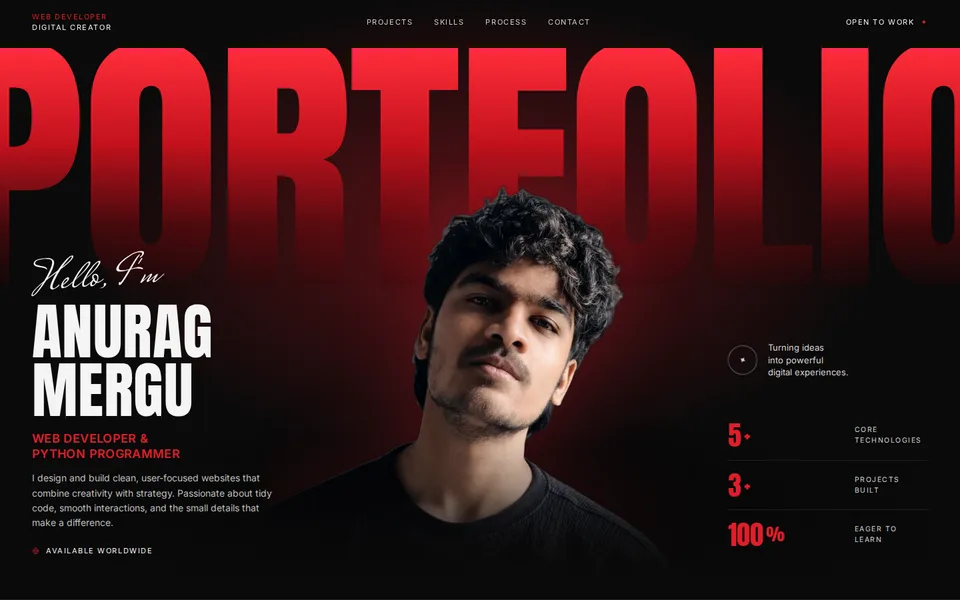
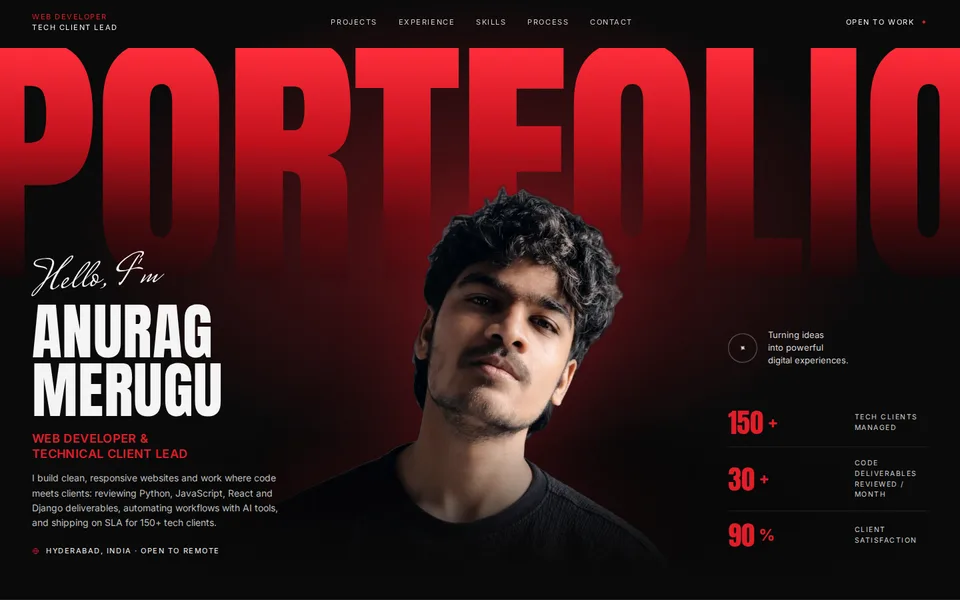
Add experience from resume and tech-focused content
- New Experience section covering the three Scoutbetter roles, framed around
  code review, AI-assisted automation and tech-client delivery
- Hero role, intro and stats now use real resume numbers
- Real education, skills, email and city; surname corrected to Merugu
- Refresh portfolio thumbnail

Claude-Session: https://claude.ai/code/session_01SLB77Zcdq7UYAGSakjk8NT

diff --git a/index.html b/index.html
@@ -3,10 +3,10 @@
 <head>
   <meta charset="UTF-8">
   <meta name="viewport" content="width=device-width, initial-scale=1.0">
-  <title>Anurag Mergu | Web Developer</title>
-  <meta name="description" content="Portfolio of Anurag Mergu — web developer building clean, responsive and user-focused websites.">
+  <title>Anurag Merugu | Web Developer</title>
+  <meta name="description" content="Portfolio of Anurag Merugu — web developer and technical customer success professional based in Hyderabad, working with Python, JavaScript, React and Django teams.">
   <meta name="theme-color" content="#0a0a0a">
-  <meta property="og:title" content="Anurag Mergu | Web Developer">
+  <meta property="og:title" content="Anurag Merugu | Web Developer">
   <meta property="og:description" content="Turning ideas into powerful digital experiences.">
   <meta property="og:image" content="assets/img/anurag.webp">
 
@@ -42,11 +42,12 @@
   <header class="topbar" id="top">
     <a href="#top" class="topbar__brand">
       <span class="accent">Web Developer</span>
-      <span>Digital Creator</span>
+      <span>Tech Client Lead</span>
     </a>
 
     <nav class="nav" id="nav" aria-label="Main">
       <a href="#projects">Projects</a>
+      <a href="#experience">Experience</a>
       <a href="#skills">Skills</a>
       <a href="#process">Process</a>
       <a href="#contact">Contact</a>
@@ -66,19 +67,19 @@
       <h1 class="hero__word" aria-hidden="true">PORTFOLIO</h1>
 
       <div class="hero__photo">
-        <img src="assets/img/anurag.webp" alt="Portrait of Anurag Mergu" width="900" height="936" fetchpriority="high">
+        <img src="assets/img/anurag.webp" alt="Portrait of Anurag Merugu" width="900" height="936" fetchpriority="high">
       </div>
 
       <div class="hero__intro reveal">
         <p class="script">Hello, I'm</p>
-        <h2 class="hero__name">Anurag<br>Mergu</h2>
-        <p class="hero__role">Web Developer &amp;<br>Python Programmer</p>
+        <h2 class="hero__name">Anurag<br>Merugu</h2>
+        <p class="hero__role">Web Developer &amp;<br>Technical Client Lead</p>
         <p class="hero__text">
-          I design and build clean, user-focused websites that combine creativity with
-          strategy. Passionate about tidy code, smooth interactions, and the small
-          details that make a difference.
+          I build clean, responsive websites and work where code meets clients:
+          reviewing Python, JavaScript, React and Django deliverables, automating
+          workflows with AI tools, and shipping on SLA for 150+ tech clients.
         </p>
-        <p class="hero__avail"><svg class="i" aria-hidden="true"><use href="#i-globe"/></svg> Available worldwide</p>
+        <p class="hero__avail"><svg class="i" aria-hidden="true"><use href="#i-globe"/></svg> Hyderabad, India · Open to remote</p>
       </div>
 
       <div class="hero__side reveal">
@@ -89,9 +90,9 @@
 
         <!-- EDIT: update these numbers as you grow -->
         <ul class="stats">
-          <li><strong data-count="5">5</strong><sup>+</sup><span>Core<br>technologies</span></li>
-          <li><strong data-count="3">3</strong><sup>+</sup><span>Projects<br>built</span></li>
-          <li><strong data-count="100">100</strong><sup>%</sup><span>Eager to<br>learn</span></li>
+          <li><strong data-count="150">150</strong><sup>+</sup><span>Tech clients<br>managed</span></li>
+          <li><strong data-count="30">30</strong><sup>+</sup><span>Code deliverables<br>reviewed / month</span></li>
+          <li><strong data-count="90">90</strong><sup>%</sup><span>Client<br>satisfaction</span></li>
         </ul>
       </div>
     </section>
@@ -155,35 +156,110 @@
       </div>
     </section>
 
+    <!-- ============ EXPERIENCE ============ -->
+    <section class="section" id="experience">
+      <div class="section__head">
+        <h2 class="section__title">Experience</h2>
+        <span class="section__line" aria-hidden="true"></span>
+        <span class="section__link">Scoutbetter · Dec 2024 – Present</span>
+      </div>
+
+      <ol class="jobs">
+        <li class="job reveal">
+          <div class="job__when">
+            <time>Feb 2026 – Present</time>
+            <span>Scoutbetter · Nizamabad</span>
+          </div>
+          <div class="job__body">
+            <h3>Sales &amp; Operations Executive</h3>
+            <ul>
+              <li>Automated lead-engagement and follow-up workflows across LinkedIn and WhatsApp Business, using AI tools to draft outreach and cut response time within SLA.</li>
+              <li>Built real-time Google Sheets trackers (formulas, status logic, dashboards) that give stakeholders live pipeline visibility with zero follow-up leakage.</li>
+              <li>Ran end-to-end engagement operations (attendance tracking, testimonial collection, payment and renewal recovery) from one data pipeline.</li>
+            </ul>
+          </div>
+          <ul class="job__tags">
+            <li>AI Tools</li><li>Automation</li><li>Google Sheets</li><li>LinkedIn</li>
+          </ul>
+        </li>
+
+        <li class="job reveal">
+          <div class="job__when">
+            <time>Sep 2025 – Feb 2026</time>
+            <span>Scoutbetter · Nizamabad</span>
+          </div>
+          <div class="job__body">
+            <h3>Customer Success Manager · Tech Clients</h3>
+            <ul>
+              <li>Reviewed and advised on 30+ client software deliverables a month across Python, JavaScript, React and Django, steering technical conversations with engineering buyers.</li>
+              <li>Owned a 150+ client portfolio in Salesforce CRM, hitting a 3-day TAT, resolving escalations within 48 hours and holding a 90% CSAT.</li>
+              <li>Tracked KPIs (TAT, CSAT, revision rate) and introduced structured requirement gathering and QA checks that cut revision cycles by 20%.</li>
+              <li>Improved client retention by 15% over six months through data-driven, proactive engagement.</li>
+            </ul>
+          </div>
+          <ul class="job__tags">
+            <li>Python</li><li>JavaScript</li><li>React</li><li>Django</li><li>Salesforce</li><li>QA</li>
+          </ul>
+        </li>
+
+        <li class="job reveal">
+          <div class="job__when">
+            <time>Dec 2024 – Aug 2025</time>
+            <span>Scoutbetter · Nizamabad</span>
+          </div>
+          <div class="job__body">
+            <h3>Team Lead</h3>
+            <ul>
+              <li>Led delivery of client-facing product work, translating customer needs into technical requirements and shipping improvements on time with cross-functional teams.</li>
+              <li>Designed modular, reusable delivery processes that cut rework by 30% and made turnaround predictable.</li>
+            </ul>
+          </div>
+          <ul class="job__tags">
+            <li>Delivery</li><li>Requirements</li><li>Process Design</li>
+          </ul>
+        </li>
+      </ol>
+
+      <div class="toolbelt reveal">
+        <h3 class="label">Tools I work with every day</h3>
+        <ul class="chips">
+          <li>VS Code</li><li>Git &amp; GitHub</li><li>AI Assistants</li><li>Salesforce CRM</li>
+          <li>Google Sheets</li><li>Microsoft Office</li><li>WhatsApp Business</li><li>LinkedIn</li>
+        </ul>
+      </div>
+    </section>
+
     <!-- ============ SKILLS / PROCESS / QUOTE ============ -->
     <section class="trio">
       <div class="trio__col" id="skills">
         <h2 class="section__title">Education &amp; Skills</h2>
 
         <h3 class="label">Education</h3>
-        <!-- EDIT: add your real degree, college and years -->
         <ul class="edu">
           <li>
-            <div><strong>Bachelor's Degree</strong><span>Your College / University</span></div>
-            <time>20XX – 20XX</time>
+            <div><strong>Bachelor's Degree, Computer Science</strong><span>Girraj Govt College</span></div>
+            <time>2020 – 2024</time>
           </li>
           <li>
-            <div><strong>Web Development</strong><span>Self-taught · Online courses</span></div>
+            <div><strong>Web Development</strong><span>Self-taught · Personal projects</span></div>
             <time>Ongoing</time>
           </li>
         </ul>
 
         <h3 class="label">Skills</h3>
         <ul class="chips">
+          <li>Python</li>
+          <li>JavaScript</li>
+          <li>React</li>
+          <li>Django</li>
+          <li>SQL</li>
           <li>HTML5</li>
           <li>CSS3</li>
-          <li>JavaScript</li>
-          <li>Python</li>
-          <li>Responsive Design</li>
-          <li>Git &amp; GitHub</li>
-          <li>UI Design</li>
-          <li>Flexbox / Grid</li>
-          <li>Problem Solving</li>
+          <li>AI Automation</li>
+          <li>Salesforce CRM</li>
+          <li>Requirement Gathering</li>
+          <li>QA &amp; Code Review</li>
+          <li>KPI Tracking</li>
         </ul>
       </div>
 
@@ -193,7 +269,7 @@
           <li class="reveal">
             <span class="steps__num">01</span>
             <span class="steps__icon"><svg class="i" aria-hidden="true"><use href="#i-search"/></svg></span>
-            <div><h4>Discover</h4><p>Understanding goals, audience, and project requirements.</p></div>
+            <div><h4>Discover</h4><p>Gathering requirements from clients and turning them into clear specs.</p></div>
           </li>
           <li class="reveal">
             <span class="steps__num">02</span>
@@ -213,7 +289,7 @@
           <li class="reveal">
             <span class="steps__num">05</span>
             <span class="steps__icon"><svg class="i" aria-hidden="true"><use href="#i-send"/></svg></span>
-            <div><h4>Deliver</h4><p>Testing, optimizing, and launching with care.</p></div>
+            <div><h4>Deliver</h4><p>QA checks, launch on SLA, and follow-up until it works.</p></div>
           </li>
         </ol>
       </div>
@@ -231,16 +307,15 @@
     <section class="contact" id="contact">
       <div class="contact__intro reveal">
         <h2 class="contact__title">Let's work<br>together <span class="spark">✦</span></h2>
-        <p>I'm currently open to new opportunities and collaborations. Let's create something amazing that drives results.</p>
+        <p>I'm open to roles in web development, technical customer success and solutions work. Let's build something that drives results.</p>
         <a class="pill" href="#contact-list"><span class="pill__ico"><svg class="i" aria-hidden="true"><use href="#i-arrow-short"/></svg></span> Available for work</a>
       </div>
 
-      <!-- EDIT: put in your real email / phone / city -->
       <ul class="contact__list reveal" id="contact-list">
-        <li><span class="ico"><svg class="i" aria-hidden="true"><use href="#i-mail"/></svg></span><a href="mailto:your.email@example.com">your.email@example.com</a></li>
+        <li><span class="ico"><svg class="i" aria-hidden="true"><use href="#i-mail"/></svg></span><a href="mailto:anuragon112@gmail.com">anuragon112@gmail.com</a></li>
         <li><span class="ico"><svg class="i" aria-hidden="true"><use href="#i-linkedin"/></svg></span><a href="https://www.linkedin.com/in/anuragmergu/" target="_blank" rel="noopener">linkedin.com/in/anuragmergu</a></li>
         <li><span class="ico"><svg class="i" aria-hidden="true"><use href="#i-github"/></svg></span><a href="https://github.com/AnuragOn1" target="_blank" rel="noopener">github.com/AnuragOn1</a></li>
-        <li><span class="ico"><svg class="i" aria-hidden="true"><use href="#i-pin"/></svg></span><span>India</span></li>
+        <li><span class="ico"><svg class="i" aria-hidden="true"><use href="#i-pin"/></svg></span><span>Hyderabad, Telangana</span></li>
       </ul>
 
       <div class="laptop reveal" aria-hidden="true">
@@ -254,7 +329,7 @@
   </main>
 
   <footer class="footer">
-    <p>© <span id="year">2026</span> Anurag Mergu. Designed &amp; built with care.</p>
+    <p>© <span id="year">2026</span> Anurag Merugu. Designed &amp; built with care.</p>
     <a href="#top" class="footer__top" aria-label="Back to top"><svg class="i" aria-hidden="true"><use href="#i-arrow-up"/></svg></a>
   </footer>
 

diff --git a/assets/css/style.css b/assets/css/style.css
@@ -602,3 +602,38 @@ h1, h2, h3, h4, p { margin: 0; }
 
   .footer { flex-direction: row; }
 }
+
+/* ---------- Experience ---------- */
+.section#experience { padding-top: 24px; }
+.jobs { border-top: 1px solid var(--line); }
+.job {
+  display: grid;
+  grid-template-columns: 220px minmax(0, 1fr) 240px;
+  gap: 32px;
+  padding: 30px 0;
+  border-bottom: 1px solid var(--line);
+  transition: background 0.3s;
+}
+.job:hover { background: linear-gradient(90deg, rgba(225, 29, 42, 0.07), transparent 70%); }
+.job__when time { display: block; color: var(--red); font-family: var(--f-display); font-size: 20px; letter-spacing: 0.02em; line-height: 1.2; }
+.job__when span { display: block; margin-top: 6px; font-size: 11px; letter-spacing: 0.12em; text-transform: uppercase; color: var(--muted); }
+.job__body h3 { font-size: 16px; font-weight: 600; text-transform: uppercase; letter-spacing: 0.03em; margin-bottom: 12px; }
+.job__body li { position: relative; padding-left: 20px; color: #bdbdbd; font-size: 13.5px; margin-bottom: 8px; }
+.job__body li::before { content: "✦"; position: absolute; left: 0; top: 1px; color: var(--red); font-size: 10px; }
+.job__tags { display: flex; flex-wrap: wrap; gap: 8px; align-content: start; justify-content: flex-end; }
+.job__tags li {
+  padding: 5px 10px;
+  border: 1px solid rgba(225, 29, 42, 0.45);
+  border-radius: 999px;
+  font-size: 10px; letter-spacing: 0.1em; text-transform: uppercase; color: #e6e6e6;
+}
+.toolbelt { margin-top: 12px; }
+
+@media (max-width: 1100px) {
+  .job { grid-template-columns: 180px minmax(0, 1fr); }
+  .job__tags { grid-column: 2; justify-content: flex-start; }
+}
+@media (max-width: 640px) {
+  .job { grid-template-columns: 1fr; gap: 14px; padding: 26px 0; }
+  .job__tags { grid-column: 1; }
+}

diff --git a/README.md b/README.md
@@ -1,4 +1,4 @@
-# Anurag Mergu — Portfolio
+# Anurag Merugu — Portfolio
 
 A personal portfolio site: dark theme with red accents, a full-bleed hero, and a layout that works on desktop and on phones.
 
@@ -23,13 +23,10 @@ assets/js/main.js       mobile menu, scroll reveal, stat counters, active nav li
 assets/img/             portrait (background removed) and project screenshots
 ```
 
-## Things to personalise
+## Updating content
 
-Search `index.html` for `EDIT:` comments:
+All content is in `index.html`:
 
-- **Education**: degree, college, years
-- **Contact**: email address (currently a placeholder) and city
-- **Stats** in the hero: the numbers and labels
-- **Project 03**: replace the "Coming Soon" card with your next project
-
-To add a project, copy one `<article class="project">` block, drop a 16:10 screenshot into `assets/img/`, and update the link and text.
+- **Hero stats**: the `data-count` numbers (the count-up animation reads these)
+- **Experience**: one `<li class="job">` per role. Copy a block to add a new job.
+- **Projects**: copy an `<article class="project">` block, drop a 16:10 screenshot into `assets/img/`, and update the link and text. Project 03 is a "Coming Soon" placeholder.
